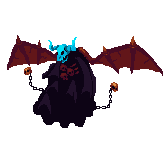
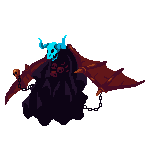
code: include hud game

Changed region(s): [[0.0258, 0.2222, 1.0, 0.8889], [0.3097, 0.8056, 0.5161, 0.8889]]

diff --git a/src/Boss.java b/src/Boss.java
@@ -17,18 +17,22 @@ public class Boss extends Enemy{
     private Image[] boss_idle_rage_l;
     private Image[] boss_atk_rage_r;
     private Image[] boss_atk_rage_l;
-    private Image boss_idle_l;
-    private Image boss_atk_l;
+    private Image[] boss_idle_l;
+    private Image[] boss_idle_r;
+    private Image[] boss_atk_l;
+    private Image[] boss_atk_r;
     private Timeline atkrageL;
     private Timeline atkrageR;
     private Timeline idlerageL;
     private Timeline idlerageR;
+    private Timeline idleL;
+    private Timeline idleR;
+    private Timeline atkL;
+    private Timeline atkR;
     private int indexAtk = 0;
     private int indexIdle = 0;
     public Boss(double x, double y) {
         super(x, y);
-        boss_idle_l = new Image("res/boss_res/boss_idle.gif");
-        setImage(boss_idle_l);
         include_boss_image();
         include_boss_animations();
     }
@@ -38,14 +42,21 @@ public class Boss extends Enemy{
           boss_idle_rage_r = new Image[6];
           boss_atk_rage_l = new Image[11];
           boss_atk_rage_r = new Image[11];
-          boss_atk_l = new Image("res/boss_res/boss_atk.gif");
+          boss_idle_r = new Image[6];
+          boss_idle_l = new Image[6];
+          boss_atk_l = new Image[10];
+          boss_atk_r = new Image[10];
         for (int i = 0; i < boss_atk_rage_l.length; i++) {
-            boss_atk_rage_l[i] = new Image("res/boss_res/boss_atk_rage_l" + i + ".png");
-            boss_atk_rage_r[i] = new Image("res/boss_res/boss_atk_rage_r" + i + ".png");
+            boss_atk_rage_l[i] = new Image("res/boss_res/rage_boss/boss_atk_rage_l" + i + ".png");
+            boss_atk_rage_r[i] = new Image("res/boss_res/rage_boss/boss_atk_rage_r" + i + ".png");
         }
         for (int i = 0; i < boss_idle_rage_l.length; i++) {
-            boss_idle_rage_l[i] = new Image("res/boss_res/boss_idle_rage_l" + i + ".png");
-            boss_idle_rage_r[i] = new Image("res/boss_res/boss_idle_rage_r" + i + ".png");
+            boss_idle_rage_l[i] = new Image("res/boss_res/rage_boss/boss_idle_rage_l" + i + ".png");
+            boss_idle_rage_r[i] = new Image("res/boss_res/rage_boss/boss_idle_rage_r" + i + ".png");
+//            boss_idle_r[i] = new Image("res/boss_res/normal_boss/"+ i + ".png");
+        }
+        for (int i = 0; i < boss_idle_l.length; i++) {
+            boss_idle_l[i] = new Image("res/boss_res/normal_boss/boss" + i + ".png");
         }
     }
 
@@ -73,6 +84,13 @@ public class Boss extends Enemy{
             setImage(boss_atk_rage_r[indexAtk]);
         }));
         atkrageR.setCycleCount(boss_atk_rage_r.length);
+
+        // movimentação no modo normal
+        idleL = new Timeline(new KeyFrame(Duration.millis(100), e -> {
+            indexIdle = (indexIdle + 1) % boss_idle_l.length;
+            setImage(boss_idle_l[indexIdle]);
+        }));
+        idleL.setCycleCount(Timeline.INDEFINITE);
     }
 
     public void run(Player player) {
@@ -86,9 +104,7 @@ public class Boss extends Enemy{
         return getX() < player.getImageView().getX() + player.getWidth();
     }
 
-    public void atkL(){
-        setImage(boss_atk_l);
-    }
+    public void atkL(){}
 
     public void atk_rageL(){
         atkrageL.play();
@@ -115,7 +131,7 @@ public class Boss extends Enemy{
 
         // Verificar a maior distância entre o Player e o Boss
         if (Math.abs(deltaX) > Math.abs(deltaY)) {
-            setImage(boss_idle_l);
+            idleL.play();
             if (deltaX > 0) {
                 setX(getX() + speed);
             } else {

diff --git a/src/GameLoop.java b/src/GameLoop.java
@@ -52,10 +52,12 @@ public class GameLoop {
                             enemy.followPlayer(player);
                             hud[0].update_enemy_hud_position(0,enemy.getX()+enemy.getFitWidth()/4,enemy.getY()-50);
                             if (enemy.enemy_collision_hit(player)) {
-                                enemy.getAtkL().play();
+//                                enemy.getAtkL().play();
                                 playerlife--;
                                 System.out.println("Player hp: " + playerlife);
-                            } else {
+                            } else if(enemy.enemy_collision_hit(player)){
+
+                            }else{
                                 enemy.getAtkL().stop();
                             }
                             if (playerlife == 0){
@@ -88,6 +90,7 @@ public class GameLoop {
         hud[0].set_hud_visible(false);
         if (kill < 3) {
             // inimigos podem aparecer em locais aleatórios do mapa
+            //!!AJUSTAR NOVOS LIMITES
             // Xr.nextInt(gameE.getSceneWidth()) = [0,1000[
             // Yr.nextInt(gameE.getSceneHeight()) = [0,600[
             enemies[kill] = new Enemy(Xr.nextInt(gameE.getSceneWidth()) + 50, Yr.nextInt(gameE.getSceneHeight()) + 50);

diff --git a/src/GameEnvironment.java b/src/GameEnvironment.java
@@ -40,10 +40,12 @@ public class GameEnvironment extends Application {
         obstacles[2] = new MapObstacles(105,246,2);
         // Coluna
         obstacles[3] = new MapObstacles(483,520,3);
+        
 
         obstacles[4] = new MapObstacles(0,0,4);
 
         obstacles[4].setWidth(1000, 600);
+
 
         for (int i = 0; i < obstacles.length; i++) {
             pane.getChildren().add(obstacles[i].getMap_obj(i));
